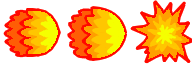
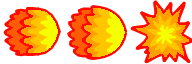
Fixed the hitboxes of enemies and projectiles.

diff --git a/GXPEngine/GXPEngine/Projectiles/Projectile.cs b/GXPEngine/GXPEngine/Projectiles/Projectile.cs
@@ -1,17 +1,19 @@
 using GXPEngine.Core;
 using System.Drawing;
+using System.Security.Policy;
 
 namespace GXPEngine
 {
-    abstract class Projectile : AnimationSprite
+    abstract class Projectile : Sprite
     {
         protected float moveSpeed = 5f; //The speed at which the projectile moves
-        //private float distanceFromSource = 20f; //The distance from its source
         public bool HasLeftSource { get; private set; } = false; //Whether the projectile has left its source
         protected GameObject source; //The source object that the projectile came from
 
         private int shootAnimationStartFrame = 0;
         private int shootAnimationFrameCount = 2;
+
+        private AnimationSprite projectileAnimation;
 
         //The position in Vector2
         private Vec2 Position
@@ -35,16 +37,24 @@ namespace GXPEngine
         /// <param name="spawnY">The Y coordinate to spawn the projectile at</param>
         /// <param name="newSource">The source the projectile was shot from</param>
         /// <param name="direction">The direction the projectile is being shot at</param>
-        public Projectile(string sprite) : base(sprite, 3, 1)
+        public Projectile(string sprite, int spriteCols, int spriteRows, string hitboxSprite, int hitboxXOffset, int hitboxYOffset) : base(hitboxSprite)
         {
-            Initialize();
+            Initialize(sprite, spriteCols, spriteRows, hitboxXOffset, hitboxYOffset);
         }
 
-        private void Initialize()
+        private void Initialize(string sprite, int spriteCols, int spriteRows, int hitboxXOffset, int hitboxYOffset)
         {
-            SetOrigin(width / 2, height / 2); //Set the origin
+            color = 0x00ff06;
+            alpha = 0;
 
-            SetCycle(shootAnimationStartFrame, shootAnimationFrameCount);
+            SetOrigin(width / 2 + hitboxXOffset, height / 2 + hitboxYOffset); //Set the origin
+
+            projectileAnimation = new AnimationSprite(sprite, spriteCols, spriteRows);
+            projectileAnimation.SetOrigin(width / 2, height / 2);
+
+            projectileAnimation.SetCycle(shootAnimationStartFrame, shootAnimationFrameCount);
+
+            AddChild(projectileAnimation);
 
             name = "Projectile";
         }
@@ -58,26 +68,8 @@ namespace GXPEngine
             }
 
             Move(moveSpeed, 0); //Move in the fired direction
-            Animate();
+            projectileAnimation.Animate();
         }
-
-        /// <summary>
-        /// Start charging the projectile
-        /// </summary>
-        //private void StartCharging()
-        //{
-        //    chargeStartTime = Time.now; //Set the time the projectile started charging
-        //}
-
-        /// <summary>
-        /// Charge the projectile
-        /// </summary>
-        //private void Charge()
-        //{
-        //    //If enough time has passed
-        //    if (Time.now >= chargeStartTime + chargeDuration)
-        //        Shoot(); //Shoot the projectile
-        //}
 
         /// <summary>
         /// Rotates the projectile towards a certain position
@@ -125,5 +117,10 @@ namespace GXPEngine
         /// <param name="newSource">The source of the projectile</param>
         /// <returns></returns>
         public abstract Projectile Duplicate(GameObject newSource);
+
+        public void Hit()
+        {
+
+        }
     }
 }

diff --git a/GXPEngine/GXPEngine/Enemies/Enemy.cs b/GXPEngine/GXPEngine/Enemies/Enemy.cs
@@ -10,7 +10,7 @@ using System.Text;
 
 namespace GXPEngine
 {
-    abstract class Enemy : AnimationSprite
+    abstract class Enemy : Sprite
     {
         protected float moveSpeed = 2f; //The move speed of the enemy
         protected float distanceFromTarget = 400f; //The enemy moves towards a target until they are this distance away
@@ -56,15 +56,17 @@ namespace GXPEngine
             }
         }
 
-        public Enemy(string sprite, float spawnX, float spawnY, int cols, int rows, GameObject newTarget, Projectile projectile) : base(sprite, cols, rows, 1)
+        public Enemy(string enemySprite, string hitboxSprite, float spawnX, float spawnY, int cols, int rows, int hitboxXOffset, int hitboxYOffset, GameObject newTarget, Projectile projectile) : base(hitboxSprite)
         {
-            Initialize(sprite, spawnX, spawnY, cols, rows, newTarget, projectile);
+            Initialize(enemySprite, spawnX, spawnY, cols, rows, hitboxXOffset, hitboxYOffset, newTarget, projectile);
         }
 
-        private void Initialize(string sprite, float spawnX, float spawnY, int cols, int rows, GameObject newTarget, Projectile projectile)
+        private void Initialize(string sprite, float spawnX, float spawnY, int cols, int rows, int hitboxXOffset, int hitboxYOffset, GameObject newTarget, Projectile projectile)
         {
-            alpha = 0;
-            SetOrigin(width / 2, height / 2); //Center the origin of the enemy
+            color = 0x00ff06;
+            alpha = 1;
+
+            SetOrigin(width / 2 + hitboxXOffset, height / 2 + hitboxYOffset); //Center the origin of the enemy
             SetXY(spawnX, spawnY); //Set the X and Y position
             target = newTarget; //Set the target
 

diff --git a/GXPEngine/GXPEngine/Enemies/FastEnemy.cs b/GXPEngine/GXPEngine/Enemies/FastEnemy.cs
@@ -8,7 +8,7 @@ namespace GXPEngine.Enemies
 {
     class FastEnemy : Enemy
     {
-        public FastEnemy(float spawnX, float spawnY, GameObject newTarget) : base("EnemyFast.png", spawnX, spawnY, 5, 4, newTarget, new FastProjectile())
+        public FastEnemy(float spawnX, float spawnY, GameObject newTarget) : base("EnemyFast.png", "EnemyDefaultHitbox.png", spawnX, spawnY, 5, 4, 0, -30, newTarget, new FastProjectile())
         {
             moveSpeed = 2f;
             distanceFromTarget = 400f;

diff --git a/GXPEngine/GXPEngine/Enemies/SlowEnemy.cs b/GXPEngine/GXPEngine/Enemies/SlowEnemy.cs
@@ -8,7 +8,7 @@ namespace GXPEngine
 {
     class SlowEnemy : Enemy
     {
-        public SlowEnemy(float spawnX, float spawnY, GameObject newTarget) : base("EnemySlow.png", spawnX, spawnY, 5, 4, newTarget, new SlowProjectile())
+        public SlowEnemy(float spawnX, float spawnY, GameObject newTarget) : base("EnemySlow.png", "EnemyDefaultHitbox.png", spawnX, spawnY, 5, 4, 0, -30, newTarget, new SlowProjectile())
         {
             moveSpeed = 2f;
             distanceFromTarget = 400f;

diff --git a/GXPEngine/GXPEngine/Enemies/EnemyAnimation.cs b/GXPEngine/GXPEngine/Enemies/EnemyAnimation.cs
@@ -7,7 +7,7 @@ namespace GXPEngine.Enemies
 {
     class EnemyAnimation : AnimationSprite
     {
-        public EnemyAnimation(string sprite, int cols, int rows) : base(sprite, cols, rows)
+        public EnemyAnimation(string sprite, int cols, int rows) : base(sprite, cols, rows, addCollider:false)
         {
             Initialize();
         }

diff --git a/GXPEngine/GXPEngine/Projectiles/SlowProjectile.cs b/GXPEngine/GXPEngine/Projectiles/SlowProjectile.cs
@@ -7,7 +7,7 @@ namespace GXPEngine.Projectiles
 {
     class SlowProjectile : Projectile
     {
-        public SlowProjectile() : base("ProjectileSlow.png")
+        public SlowProjectile() : base("ProjectileSlow.png", 3, 1, "ProjectileSlowHitbox.png", 0, -8)
         {
             //Override the variables
             moveSpeed = 5f;

diff --git a/GXPEngine/GXPEngine/Projectiles/FastProjectile.cs b/GXPEngine/GXPEngine/Projectiles/FastProjectile.cs
@@ -7,7 +7,7 @@ namespace GXPEngine.Projectiles
 {
     class FastProjectile : Projectile
     {
-        public FastProjectile() : base("ProjectileFast.png")
+        public FastProjectile() : base("ProjectileFast.png", 3, 1, "ProjectileFastHitbox.png", 0, -22)
         {
             moveSpeed = 10f;
         }
